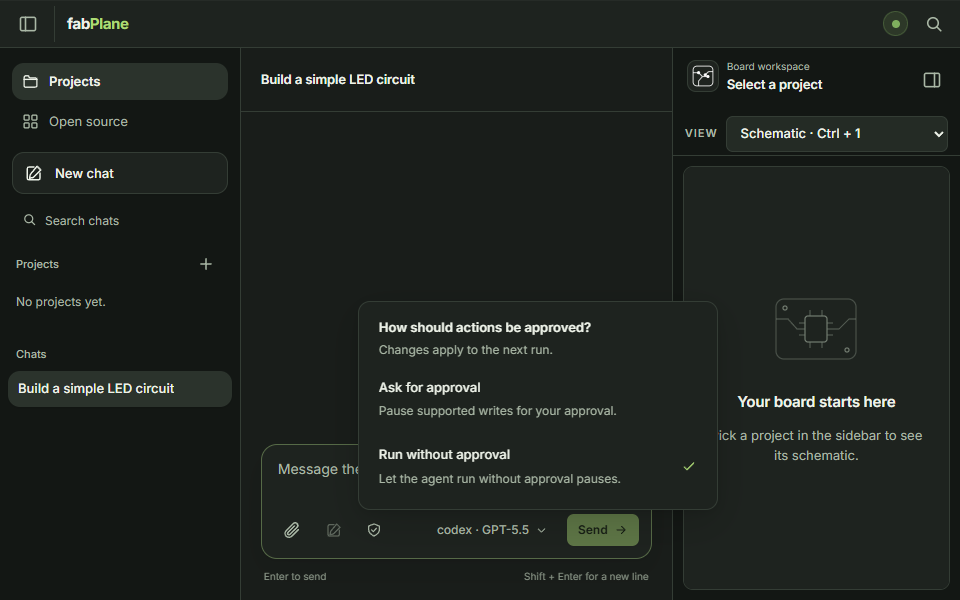
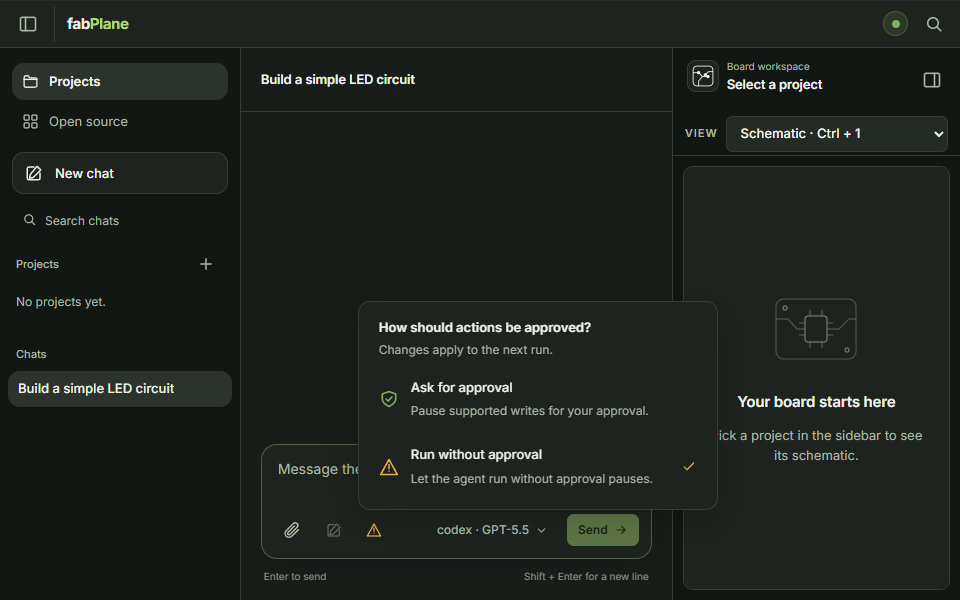
docs: refresh permission menu screenshots with semantic colors

Changed region(s): [[0.375, 0.75, 0.6875, 0.81], [0.375, 0.63, 0.6875, 0.69], [0.375, 0.87, 0.4062, 0.9]]

diff --git a/docs/validation/chat-permissions/README.md b/docs/validation/chat-permissions/README.md
@@ -1,11 +1,11 @@
 # Composer permissions
 
-Source: `a7b5c5e96b972770743f6302553f5644056fa074`.
+Source: `e92deec5a4749f35f188a46a9deb9861ab5bc32c`.
 
-The chat header now shows the title and existing pin/run status. Agent/model remains in the composer. Existing chats have a shield button in the composer that opens the approval choices; the old header toggle is removed.
+The chat header now shows the title and existing pin/run status. Agent/model remains in the composer. Existing chats have a permission button in the composer that opens the approval choices; the old header toggle is removed.
 
-- **Ask for approval:** pauses supported writes for approval.
-- **Run without approval:** runs without approval pauses.
+- **Ask for approval:** green shield; pauses supported writes for approval.
+- **Run without approval:** amber warning icon; runs without approval pauses.
 - Changes take effect on the next run; the existing useSetRuntimeMode hook and daemon validation are reused. This is not a change to permission enforcement or new-chat defaults.
 - A rejected save retains the prior mode and shows the error. Escape/selection return focus; outside clicks preserve the clicked target; Tab advances to the next toolbar control.
 - Compact panes use an accessible icon/tooltip. At the 300 px chat minimum, the model and run controls get a separate row rather than disappearing.
@@ -18,3 +18,5 @@ UI typecheck and 110 UI tests passed. Desktop build passed. Physical Mac was not
 
 ![Composer permissions at 1440 x 920](wide.png)
 ![Composer permissions at 960 x 600](narrow.png)
+
+Color follow-up: trigger and selection check match the mode; errors pair red text with a warning icon. Labels and descriptions stay neutral. Existing theme tokens cover all four themes. UI typecheck, both-size popup checks, and desktop build passed again.
